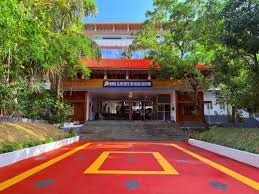
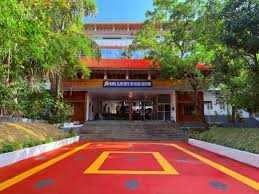
Set uploaded campus photo as starting page background with dominating black screen overlay

diff --git a/src/components/LoginPage.jsx b/src/components/LoginPage.jsx
@@ -82,18 +82,17 @@ export default function LoginPage({ onLogin }) {
     <div className="relative min-h-screen w-full bg-black text-white font-sans overflow-x-hidden selection:bg-white selection:text-black">
       
       {/* ============================================================== */}
-      {/* CINEMATIC BLACK & WHITE CAMPUS BACKGROUND (FROM USER PHOTO)    */}
+      {/* CAMPUS BACKGROUND WITH BLACK SCREEN DOMINATING                 */}
       {/* ============================================================== */}
-      <div className="fixed inset-0 pointer-events-none z-0">
+      <div className="fixed inset-0 pointer-events-none z-0 bg-black overflow-hidden">
         <img 
           src={campusPhoto} 
           alt="Noorul Islam Centre for Higher Education Campus" 
-          className="w-full h-full object-cover object-center filter grayscale contrast-[135%] brightness-[0.40] scale-105 transform duration-1000 ease-out"
+          className="w-full h-full object-cover object-center opacity-40 filter contrast-125 brightness-90 transform scale-100 transition-all duration-700"
         />
-        {/* Deep Vignette & Dark Atmospheric Gradients */}
-        <div className="absolute inset-0 bg-gradient-to-t from-black via-black/50 to-black/80" />
-        <div className="absolute inset-0 bg-gradient-to-r from-black/80 via-transparent to-black/80" />
-        <div className="absolute inset-0 bg-[radial-gradient(circle_at_center,transparent_10%,rgba(0,0,0,0.75)_95%)]" />
+        {/* Dominant Black Overlays & Center Vignette */}
+        <div className="absolute inset-0 bg-gradient-to-t from-black via-black/55 to-black/80" />
+        <div className="absolute inset-0 bg-[radial-gradient(ellipse_at_center,rgba(0,0,0,0.35)_0%,rgba(0,0,0,0.88)_100%)]" />
       </div>
 
       {/* ============================================================== */}
